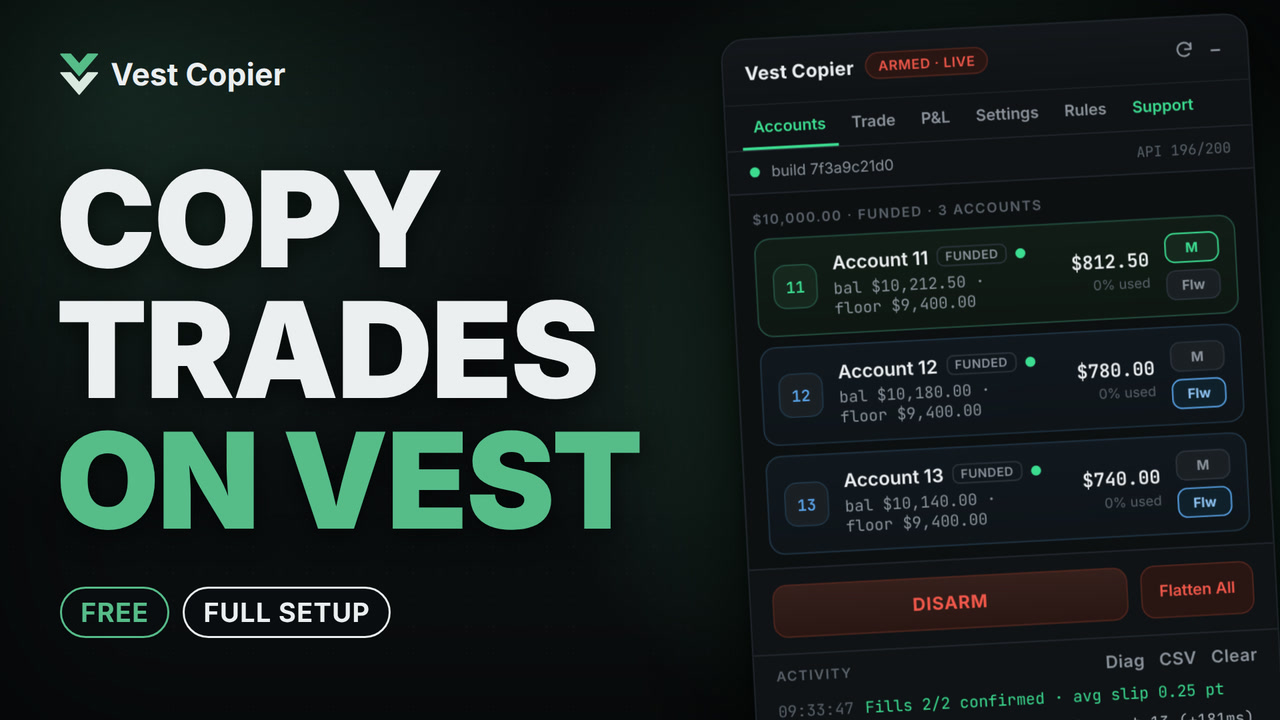
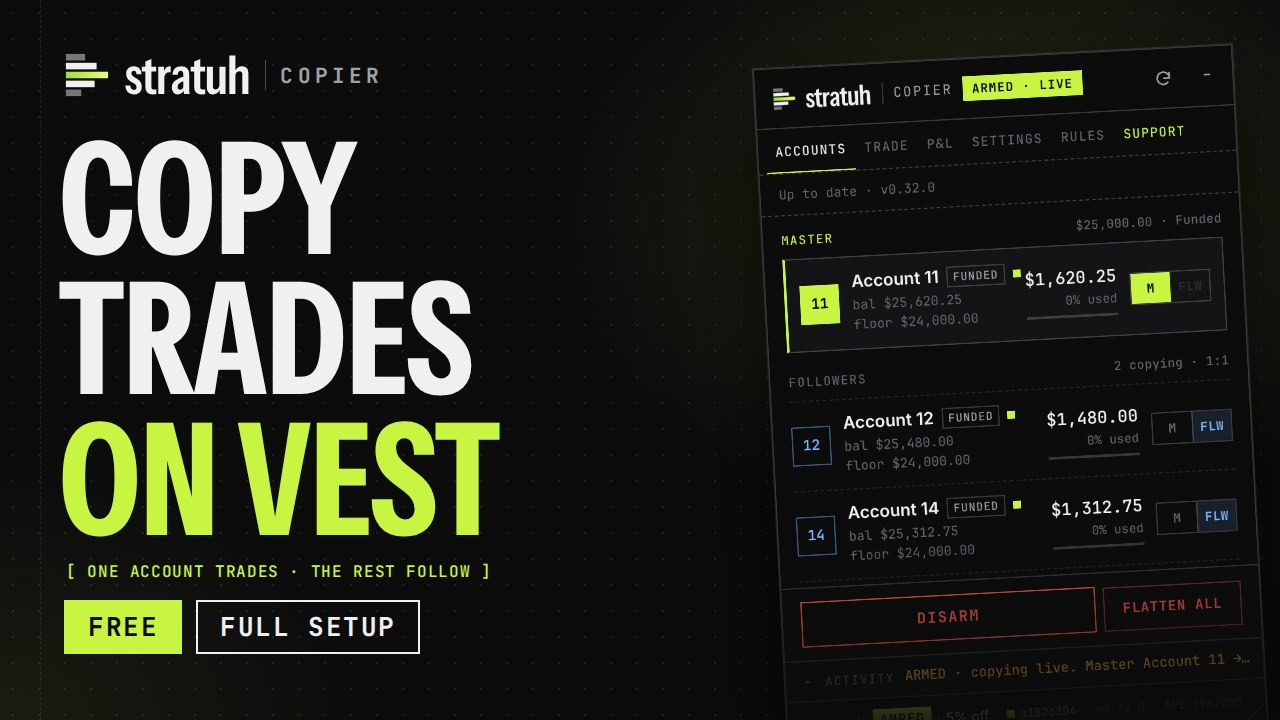
Docs update

diff --git a/README.md b/README.md
@@ -1,19 +1,32 @@
 # STRATUH Copier
 
-<a href="https://youtu.be/EMpVqls6D8o"><img src="docs/tutorial/img/video.jpg" alt="Setup video: copy trades on Vest, free, full setup" width="640"></a>
+[![version](https://img.shields.io/github/v/release/xAmped/Vest-Copier?style=flat-square&label=version&labelColor=0c0c0d&color=c8f542)](https://github.com/xAmped/Vest-Copier/releases/latest)
+[![downloads](https://img.shields.io/github/downloads/xAmped/Vest-Copier/total?style=flat-square&label=downloads&labelColor=0c0c0d&color=c8f542)](https://github.com/xAmped/Vest-Copier/releases)
+[![discord](https://img.shields.io/badge/discord-join-c8f542?style=flat-square&labelColor=0c0c0d)](https://discord.gg/Aa69y9KnM3)
+[![price](https://img.shields.io/badge/price-free-c8f542?style=flat-square&labelColor=0c0c0d)](LICENSE)
 
-**[Watch the 6-minute setup video on YouTube](https://youtu.be/EMpVqls6D8o)** (recorded before the new look; the
-steps are the same)
+Trade one Vest account and your other accounts take the same trade, live. It's a Tampermonkey userscript that runs
+inside the [Vest Markets](https://next.vestmarkets.com) page, part of STRATUH, my trading tools. It used to be called
+Vest Copier: same script, same install link, new look.
 
-Trade copier for prop accounts on [Vest Markets](https://next.vestmarkets.com). One account leads, the others mirror
-it. Runs as a Tampermonkey userscript inside the Vest page. Part of STRATUH, my trading tools. It used to be called
-Vest Copier; same script, same link, new look.
+[![Watch the 6-minute setup video](docs/tutorial/img/video.jpg)](https://youtu.be/EMpVqls6D8o)
 
-<p>
-  <img src="docs/tutorial/img/accounts.png" alt="Accounts tab with the master on top and two followers" width="340">
-  &nbsp;
-  <img src="docs/tutorial/img/trade.png" alt="Trade tab with margin and risk bars and a price ladder" width="340">
-</p>
+[![Install vest-copier.user.js](https://img.shields.io/badge/install-vest--copier.user.js-c8f542?style=for-the-badge&labelColor=0c0c0d)](https://github.com/xAmped/Vest-Copier/releases/latest/download/vest-copier.user.js)
+
+New here? Start with the [6-minute setup video](https://youtu.be/EMpVqls6D8o) (recorded before the new look, same
+steps), the [tutorial](https://xamped.github.io/Vest-Copier/tutorial/) or the
+[one-page quick start](docs/Vest-Copier-Quick-Start.pdf). Every button is in the [user guide](docs/USER-GUIDE.md).
+
+<table>
+  <tr>
+    <th>Accounts</th><th>Trade</th><th>In a trade</th>
+  </tr>
+  <tr valign="top">
+    <td><img src="docs/tutorial/img/accounts.png" alt="Accounts tab: the master on top and two followers, armed" width="250"><br><sub>Master on top, followers below.</sub></td>
+    <td><img src="docs/tutorial/img/trade.png" alt="Trade tab: margin and risk bars and the price ladder" width="250"><br><sub>Bars up top, one price ladder.</sub></td>
+    <td><img src="docs/tutorial/img/trade-in.png" alt="In a trade: Breakeven, Close and the add chips" width="250"><br><sub>Breakeven, Close and add.</sub></td>
+  </tr>
+</table>
 
 ## A copy, start to finish
 
@@ -53,28 +66,34 @@ You need a desktop browser (Chrome, Edge, Brave or Firefox). Five steps, about f
    want copying it, then press **ARM**. From now on, trade the lead account as usual. **DISARM** stops copying;
    positions stay as they are.
 
-Stuck? Watch the [6-minute setup video](https://youtu.be/EMpVqls6D8o) or ask in the
-[Discord](https://discord.gg/Aa69y9KnM3).
-
-The [tutorial](https://xamped.github.io/Vest-Copier/tutorial/) walks through setup with screenshots, the
-[quick-start PDF](docs/Vest-Copier-Quick-Start.pdf) fits it on one page, and the [user guide](docs/USER-GUIDE.md) goes
-through every button.
+> [!TIP]
+> Stuck? Watch the [setup video](https://youtu.be/EMpVqls6D8o) or ask in the [Discord](https://discord.gg/Aa69y9KnM3).
 
 ## The panel
 
 | Tab | What's there |
 |---|---|
-| Accounts | Your master on top, then the followers, with balance, floor and room left. Pick the master and followers here. |
-| Trade | An order ticket in points for the market Vest is showing. Two bars up top show how much of Vest's buying power you're using and what your stop would cost against the room to your floor. Stop, entry and targets sit in one price ladder, Sell prices on the left and Buy prices on the right. Size by contracts, by dollars at risk or at the max the account allows. Market orders, or limit orders priced with a click on Vest's chart. Once you're in, Breakeven, Close and add buttons (+25%, +50%, +100% or the most that fits) sit right above. |
-| P&L | Profit or loss per account and in total, what you'd keep after each funded account's profit split, and **Claim all profit**: one preview, one confirm, and every funded account's profit is claimed to your Primary Account. |
-| Settings | Fast mode, Auto-flatten, Cap-to-fit, update checks, and the AMPED code switch. |
-| Rules | What the copier will and won't do, and the risk notice. |
-| Support | Report a problem, share an idea, the Discord, links to the guides, and the AMPED code. |
+| **Accounts** | Your master on top, then the followers, with balance, floor and room left. Pick them here. |
+| **Trade** | An order ticket in points for the market Vest is showing (details below). |
+| **P&L** | Profit per account and in total, what you keep after each profit split, and **Claim all profit** in one preview and one confirm. |
+| **Settings** | Fast mode, Auto-flatten, Cap-to-fit, update checks, and the AMPED code switch. |
+| **Rules** | What the copier will and won't do, and the risk notice. |
+| **Support** | Report a problem, share an idea, the Discord and the guides. |
 
-At the bottom: **ARM / DISARM**, a red **Flatten All** that instantly closes everything on every account (no
-confirmation; the copier stays armed, so it doubles as a quick exit for scalping), and the activity log folded to its
-latest line (click it for the full log, **Diag** and **CSV**). The bottom right shows Vest's build, your version and
-the API budget.
+**On the Trade tab:**
+
+- **Margin and risk bars:** how much of Vest's buying power you're using, and what your stop would cost against the
+  room to your floor, before you click.
+- **One price ladder:** targets, entry, stop and fail price in a single table. Sell prices on the left, Buy prices on
+  the right, points in the middle.
+- **Sizing:** contracts, dollars at risk, or the max the account allows.
+- **Limit orders:** click Vest's chart for the price, then Place.
+- **In a trade:** Breakeven, Close, and add buttons (+25%, +50%, +100% or the most that fits). Adding never loosens
+  your stop.
+
+At the bottom of the panel: **ARM / DISARM**, a red **Flatten All** that closes everything on every account at once
+(no confirmation, and the copier stays armed, so it doubles as a quick exit), and the activity log folded to its latest
+line. The bottom right shows Vest's build, your version and the API budget.
 
 ## Things it won't do
 
